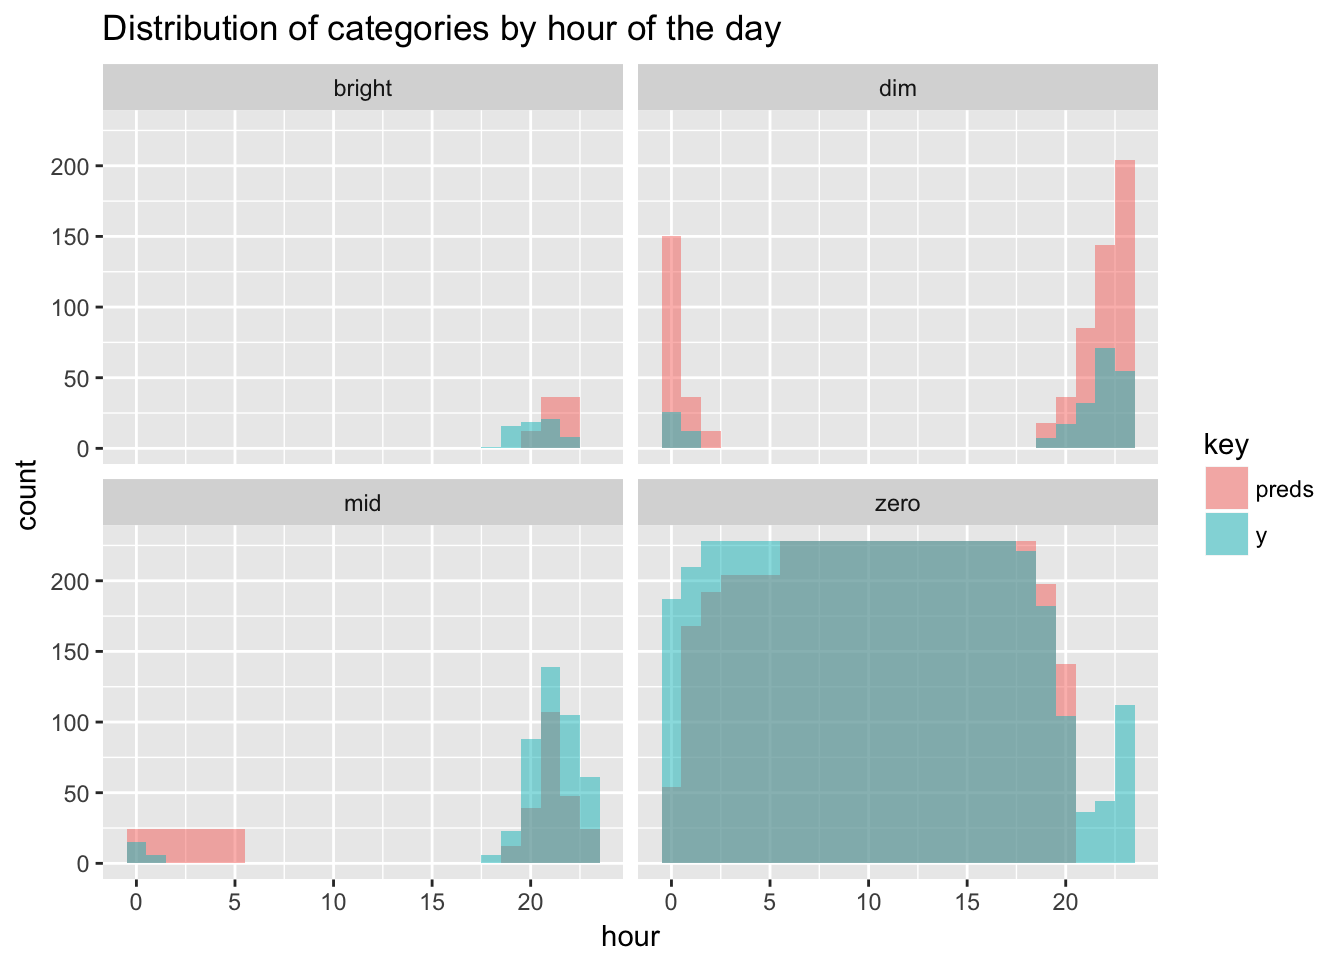
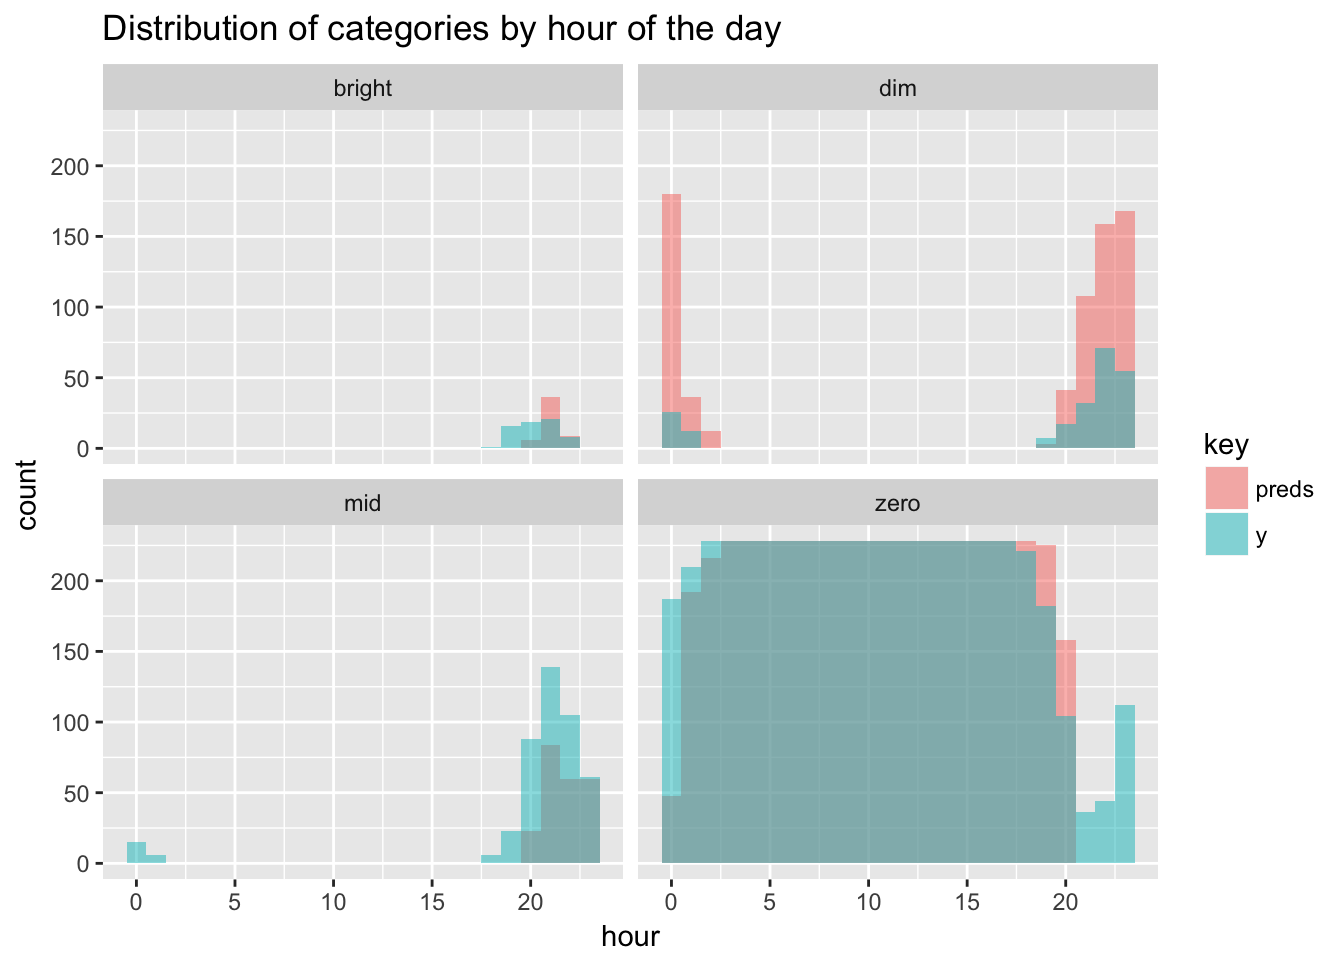
disqus try 2

diff --git a/blog/self-learning-hue-lights/index.html b/blog/self-learning-hue-lights/index.html
@@ -44,10 +44,10 @@
 
 
     
-    <link rel="stylesheet" href="../../css/reset.css?t=1533585198">
-    <link rel="stylesheet" href="../../css/main.css?t=1533585198">
+    <link rel="stylesheet" href="../../css/reset.css?t=1533586085">
+    <link rel="stylesheet" href="../../css/main.css?t=1533586085">
     
-        <link rel="stylesheet" href="../../css/override.css?t=1533585198">
+        <link rel="stylesheet" href="../../css/override.css?t=1533586085">
     
 
 
@@ -277,10 +277,10 @@ gbmFit &lt;- train(y ~ ., data = training,
 table(preds, testing$y)</code></pre>
 <pre><code>##         
 ## preds     dim  mid bright zero
-##   dim      98  195     23  369
-##   mid      50   99     13  212
-##   bright   27   52      0    5
-##   zero     45   97     29 4158</code></pre>
+##   dim     105  205     31  366
+##   mid      58  102      6   61
+##   bright   14   34      0    3
+##   zero     43  102     28 4314</code></pre>
 <p>Most mistakes are made trying to classify bright and mid. The model gets 0 bright values right and only manages to do so correctly 14% of the time for mid. But when do errors happen? To dig a little deeper let’s look at the previous histogram of categories by hour again for the test set, but now with the predictions overlaid on top.</p>
 <p><img src="../../blog/2017/2017-05-14-hue_files/figure-html/unnamed-chunk-11-1.png" width="672" /></p>
 <p>Bright values were always going be hard to guess, but the model at least comes close in terms of hours, but off on the exact days. The majority of misclassification comes from overzealously predicting dim in the evening and around midnight, when it should really be either mid or zero. That looks like a workable scenario for me.</p>

diff --git a/blog/a-tidy-text-analysis-of-rick-and-morty/index.html b/blog/a-tidy-text-analysis-of-rick-and-morty/index.html
@@ -44,10 +44,10 @@
 
 
     
-    <link rel="stylesheet" href="../../css/reset.css?t=1533585198">
-    <link rel="stylesheet" href="../../css/main.css?t=1533585198">
+    <link rel="stylesheet" href="../../css/reset.css?t=1533586085">
+    <link rel="stylesheet" href="../../css/main.css?t=1533586085">
     
-        <link rel="stylesheet" href="../../css/override.css?t=1533585198">
+        <link rel="stylesheet" href="../../css/override.css?t=1533586085">
     
 
 
@@ -231,9 +231,9 @@ bigram_graph &lt;- df %&gt;%
 <pre><code>## Warning in graph_from_data_frame(.): In `d&#39; `NA&#39; elements were replaced
 ## with string &quot;NA&quot;</code></pre>
 <pre class="r"><code>print(bigram_graph)</code></pre>
-<pre><code>## IGRAPH 0244ced DN-- 311 283 -- 
+<pre><code>## IGRAPH ec21a3c DN-- 311 283 -- 
 ## + attr: name (v/c), season (e/c), n (e/n)
-## + edges from 0244ced (vertex names):
+## + edges from ec21a3c (vertex names):
 ## [1] NA      -&gt;NA      NA      -&gt;NA      NA      -&gt;NA      tiny    -&gt;rick   
 ## [5] yeah    -&gt;yeah   
 ##  [ reached getOption(&quot;max.print&quot;) -- omitted 21 entries ]

diff --git a/blog/an-animated-neural-net-implementation/index.html b/blog/an-animated-neural-net-implementation/index.html
@@ -44,10 +44,10 @@
 
 
     
-    <link rel="stylesheet" href="../../css/reset.css?t=1533585198">
-    <link rel="stylesheet" href="../../css/main.css?t=1533585198">
+    <link rel="stylesheet" href="../../css/reset.css?t=1533586085">
+    <link rel="stylesheet" href="../../css/main.css?t=1533586085">
     
-        <link rel="stylesheet" href="../../css/override.css?t=1533585198">
+        <link rel="stylesheet" href="../../css/override.css?t=1533586085">
     
 
 

diff --git a/blog/analyzing-my-spotify-listening-history/index.html b/blog/analyzing-my-spotify-listening-history/index.html
@@ -44,10 +44,10 @@
 
 
     
-    <link rel="stylesheet" href="../../css/reset.css?t=1533585198">
-    <link rel="stylesheet" href="../../css/main.css?t=1533585198">
+    <link rel="stylesheet" href="../../css/reset.css?t=1533586085">
+    <link rel="stylesheet" href="../../css/main.css?t=1533586085">
     
-        <link rel="stylesheet" href="../../css/override.css?t=1533585198">
+        <link rel="stylesheet" href="../../css/override.css?t=1533586085">
     
 
 

diff --git a/blog/creating-a-spotify-playlist-using-luigi/index.html b/blog/creating-a-spotify-playlist-using-luigi/index.html
@@ -44,10 +44,10 @@
 
 
     
-    <link rel="stylesheet" href="../../css/reset.css?t=1533585198">
-    <link rel="stylesheet" href="../../css/main.css?t=1533585198">
+    <link rel="stylesheet" href="../../css/reset.css?t=1533586085">
+    <link rel="stylesheet" href="../../css/main.css?t=1533586085">
     
-        <link rel="stylesheet" href="../../css/override.css?t=1533585198">
+        <link rel="stylesheet" href="../../css/override.css?t=1533586085">
     
 
 

diff --git a/blog/dockerized-shiny-app-development/index.html b/blog/dockerized-shiny-app-development/index.html
@@ -44,10 +44,10 @@
 
 
     
-    <link rel="stylesheet" href="../../css/reset.css?t=1533585198">
-    <link rel="stylesheet" href="../../css/main.css?t=1533585198">
+    <link rel="stylesheet" href="../../css/reset.css?t=1533586085">
+    <link rel="stylesheet" href="../../css/main.css?t=1533586085">
     
-        <link rel="stylesheet" href="../../css/override.css?t=1533585198">
+        <link rel="stylesheet" href="../../css/override.css?t=1533586085">
     
 
 

diff --git a/blog/interpretable-gdpr-classifiers/index.html b/blog/interpretable-gdpr-classifiers/index.html
@@ -44,10 +44,10 @@
 
 
     
-    <link rel="stylesheet" href="../../css/reset.css?t=1533585198">
-    <link rel="stylesheet" href="../../css/main.css?t=1533585198">
+    <link rel="stylesheet" href="../../css/reset.css?t=1533586085">
+    <link rel="stylesheet" href="../../css/main.css?t=1533586085">
     
-        <link rel="stylesheet" href="../../css/override.css?t=1533585198">
+        <link rel="stylesheet" href="../../css/override.css?t=1533586085">
     
 
 

diff --git a/blog/parallelizing-r-code-on-kubernetes/index.html b/blog/parallelizing-r-code-on-kubernetes/index.html
@@ -44,10 +44,10 @@
 
 
     
-    <link rel="stylesheet" href="../../css/reset.css?t=1533585198">
-    <link rel="stylesheet" href="../../css/main.css?t=1533585198">
+    <link rel="stylesheet" href="../../css/reset.css?t=1533586085">
+    <link rel="stylesheet" href="../../css/main.css?t=1533586085">
     
-        <link rel="stylesheet" href="../../css/override.css?t=1533585198">
+        <link rel="stylesheet" href="../../css/override.css?t=1533586085">
     
 
 

diff --git a/blog/starting-a-blogdown/index.html b/blog/starting-a-blogdown/index.html
@@ -44,10 +44,10 @@
 
 
     
-    <link rel="stylesheet" href="../../css/reset.css?t=1533585198">
-    <link rel="stylesheet" href="../../css/main.css?t=1533585198">
+    <link rel="stylesheet" href="../../css/reset.css?t=1533586085">
+    <link rel="stylesheet" href="../../css/main.css?t=1533586085">
     
-        <link rel="stylesheet" href="../../css/override.css?t=1533585198">
+        <link rel="stylesheet" href="../../css/override.css?t=1533586085">
     
 
 

diff --git a/categories/r/index.html b/categories/r/index.html
@@ -44,10 +44,10 @@
 
 
     
-    <link rel="stylesheet" href="../../css/reset.css?t=1533585198">
-    <link rel="stylesheet" href="../../css/main.css?t=1533585198">
+    <link rel="stylesheet" href="../../css/reset.css?t=1533586085">
+    <link rel="stylesheet" href="../../css/main.css?t=1533586085">
     
-        <link rel="stylesheet" href="../../css/override.css?t=1533585198">
+        <link rel="stylesheet" href="../../css/override.css?t=1533586085">
     
 
 

diff --git a/tags/ai/index.html b/tags/ai/index.html
@@ -44,10 +44,10 @@
 
 
     
-    <link rel="stylesheet" href="../../css/reset.css?t=1533585198">
-    <link rel="stylesheet" href="../../css/main.css?t=1533585198">
+    <link rel="stylesheet" href="../../css/reset.css?t=1533586085">
+    <link rel="stylesheet" href="../../css/main.css?t=1533586085">
     
-        <link rel="stylesheet" href="../../css/override.css?t=1533585198">
+        <link rel="stylesheet" href="../../css/override.css?t=1533586085">
     
 
 

diff --git a/tags/async/index.html b/tags/async/index.html
@@ -44,10 +44,10 @@
 
 
     
-    <link rel="stylesheet" href="../../css/reset.css?t=1533585198">
-    <link rel="stylesheet" href="../../css/main.css?t=1533585198">
+    <link rel="stylesheet" href="../../css/reset.css?t=1533586085">
+    <link rel="stylesheet" href="../../css/main.css?t=1533586085">
     
-        <link rel="stylesheet" href="../../css/override.css?t=1533585198">
+        <link rel="stylesheet" href="../../css/override.css?t=1533586085">
     
 
 
